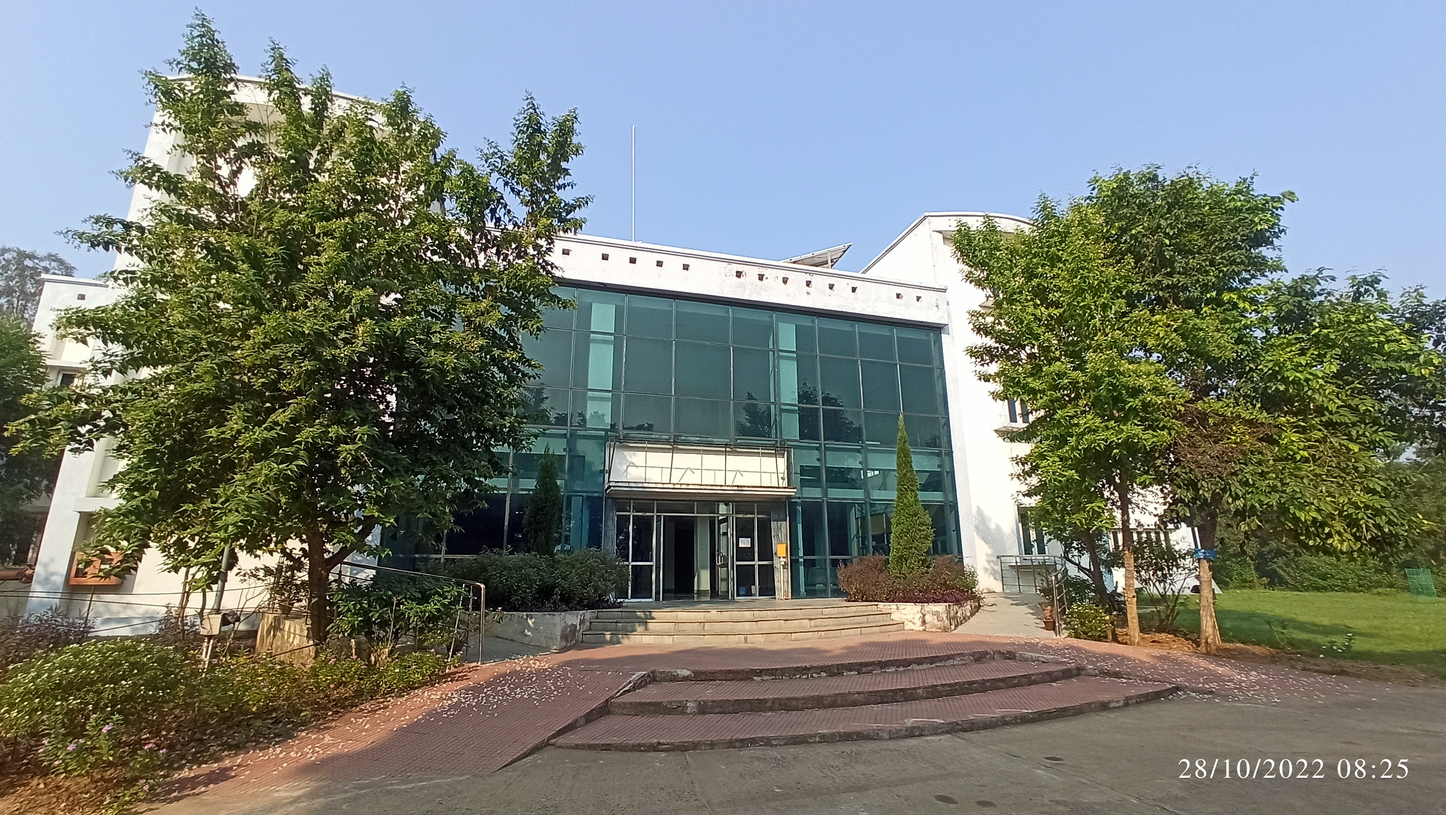
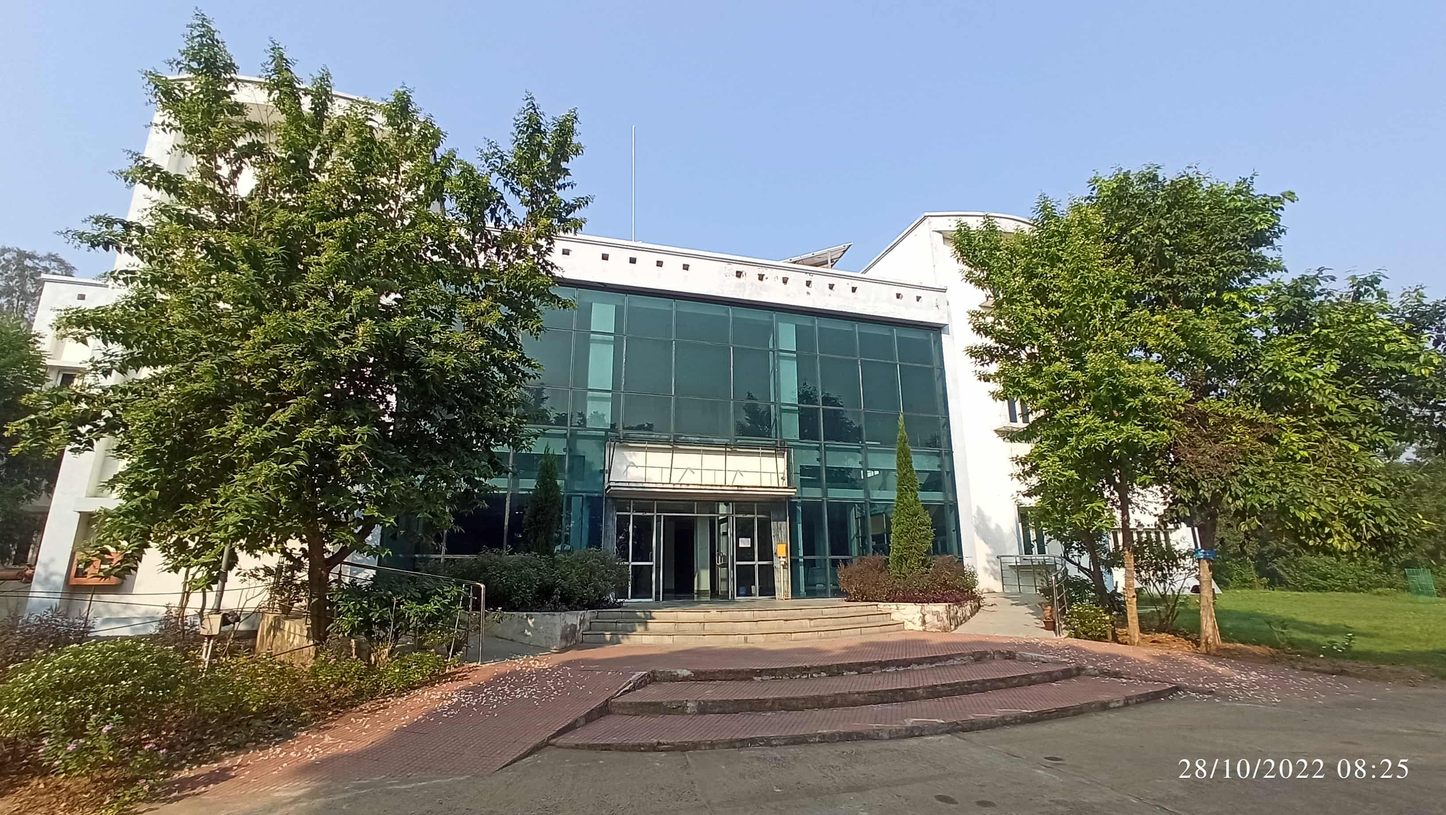
Compressed Images, so that the site loads faster (#44)
* updated gallery with hosca and gallery footer

* updated carousel and hexachrome added

* deleting images

now will upload compressed images

* Uploaded compressed images

* delete large size photos

* Added compressed images of portfolio

* Compressed img/portfolio images

* Updated images

---------

diff --git a/club-carousel/stc_clubs.html b/club-carousel/stc_clubs.html
@@ -22,7 +22,7 @@
             <label for="cover-1">
               <figure class="album-cover">
                 <img
-                  src="../img\clublogos\NJACKLogo.png"
+                  src="../img\clublogos\NJACKLogo.webp"
                 />
 
                 <figcaption class="album-name">
@@ -39,7 +39,7 @@
             <label for="cover-2">
               <figure class="album-cover">
                 <img
-                  src="../img\clublogos\TinkersLogo.png"
+                  src="../img\clublogos\TinkersLogo.webp"
                 />
                 <figcaption class="album-name">
                   Tinkerer's Lab<br>
@@ -55,7 +55,7 @@
             <label for="cover-3">
               <figure class="album-cover">
                 <img
-                  src="../img\clublogos\FinanceClubIITPLogo.png"
+                  src="../img\clublogos\FinanceClubIITPLogo.webp"
                 />
                 <figcaption class="album-name">
                   Finance Club<br>
@@ -71,7 +71,7 @@
             <label for="cover-4">
               <figure class="album-cover">
                 <img
-                  src="../img\clublogos\ChESSxLogo.jpg"
+                  src="../img\clublogos\ChESSxLogo.webp"
                 />
                 <figcaption class="album-name">
                   ChESSx<br>
@@ -87,7 +87,7 @@
             <label for="cover-5">
               <figure class="album-cover">
                 <img
-                  src="../img\clublogos\APCIITPatnalogo.png"
+                  src="../img\clublogos\APCIITPatnalogo.webp"
                 />
                 <figcaption class="album-name">
                   APC<br>
@@ -103,7 +103,7 @@
             <label for="cover-6">
               <figure class="album-cover">
                 <img
-                  src="../img\clublogos\ACElogo.png"
+                  src="../img\clublogos\ACElogo.webp"
                 />
                 <figcaption class="album-name">
                   ACE<br>
@@ -119,7 +119,7 @@
             <label for="cover-7">
               <figure class="album-cover">
                 <img
-                  src="../img\clublogos\Mateslogo.png"
+                  src="../img\clublogos\Mateslogo.webp"
                 />
                 <figcaption class="album-name">
                   MaTES<br>
@@ -135,7 +135,7 @@
             <label for="cover-8">
               <figure class="album-cover">
                 <img
-                  src="../img\clublogos\sparkonicsLogo.jpg"
+                  src="../img\clublogos\sparkonicsLogo.webp"
                 />
                 <figcaption class="album-name">
                   Sparkonics<br>
@@ -151,7 +151,7 @@
             <label for="cover-9">
               <figure class="album-cover">
                 <img
-                  src="../img\clublogos\SCMELogo.jpg"
+                  src="../img\clublogos\SCMELogo.webp"
                 />
                 <figcaption class="album-name">
                   SCME<br>
@@ -167,23 +167,7 @@
             <label for="cover-10">
               <figure class="album-cover">
                 <img
-                  src="../img\clublogos\RnALogo.png"
-                />
-                <figcaption class="album-name">
-                  RnA<br>
-                  <a href="https://stc.iitp.ac.in/rnaclub.html" class="learn-more hidden" id="link10"
-                  target="_parent">Learn More</a>
-                </figcaption>
-              </figure>
-            </label>
-          </li>
-          <!-- Cover item -->
-          <input type="radio" name="cover-item" id="cover-10" />
-          <li class="coverflow-item">
-            <label for="cover-10">
-              <figure class="album-cover">
-                <img
-                  src="../img\clublogos\RnALogo.png"
+                  src="../img\clublogos\RnALogo.webp"
                 />
                 <figcaption class="album-name">
                   RnA<br>
@@ -199,7 +183,7 @@
             <label for="cover-11">
               <figure class="album-cover">
                 <img
-                  src="../img\clublogos\MoodBoard.png"
+                  src="../img\clublogos\MoodBoard.webp"
                 />
                 <figcaption class="album-name">
                   MoodBoard<br>
@@ -214,7 +198,7 @@
             <label for="cover-12">
               <figure class="album-cover">
                 <img
-                  src="../img\clublogos\supra.jpg"
+                  src="../img\clublogos\supra.webp"
                 />
                 <figcaption class="album-name">
                   Supra<br>

diff --git a/club-carousel/hosca_clubs.html b/club-carousel/hosca_clubs.html
@@ -22,7 +22,7 @@
             <label for="cover-1">
               <figure class="album-cover">
                 <img
-                  src="../img\clublogos\Pixxel.jpeg"
+                  src="../img\clublogos\Pixxel.webp"
                 />
 
                 <figcaption class="album-name">
@@ -39,7 +39,7 @@
             <label for="cover-2">
               <figure class="album-cover">
                 <img
-                  src="../img\clublogos\Vincetroke.png"
+                  src="../img\clublogos\Vincetroke.webp"
                 />
                 <figcaption class="album-name">
                   Vincetroke<br>
@@ -55,7 +55,7 @@
             <label for="cover-3">
               <figure class="album-cover">
                 <img
-                  src="../img\clublogos\anime.png"
+                  src="../img\clublogos\anime.webp"
                 />
                 <figcaption class="album-name">
                   Anime Club<br>
@@ -71,7 +71,7 @@
             <label for="cover-4">
               <figure class="album-cover">
                 <img
-                  src="../img\clublogos\aria.png"
+                  src="../img\clublogos\aria.webp"
                 />
                 <figcaption class="album-name">
                   Aria<br>
@@ -87,7 +87,7 @@
             <label for="cover-5">
               <figure class="album-cover">
                 <img
-                  src="../img\clublogos\exousia.png"
+                  src="../img\clublogos\exousia.webp"
                 />
                 <figcaption class="album-name">
                   Exousia<br>
@@ -103,7 +103,7 @@
             <label for="cover-6">
               <figure class="album-cover">
                 <img
-                  src="../img\clublogos\hoot.png"
+                  src="../img\clublogos\hoot.webp"
                 />
                 <figcaption class="album-name">
                   Hoot<br>
@@ -119,7 +119,7 @@
             <label for="cover-7">
               <figure class="album-cover">
                 <img
-                  src="../img\clublogos\quiz.png"
+                  src="../img\clublogos\quiz.webp"
                 />
                 <figcaption class="album-name">
                   Quiz Club<br>
@@ -135,7 +135,7 @@
             <label for="cover-8">
               <figure class="album-cover">
                 <img
-                  src="../img\clublogos\syahi.png"
+                  src="../img\clublogos\syahi.webp"
                 />
                 <figcaption class="album-name">
                   Syahi<br>
@@ -151,11 +151,28 @@
             <label for="cover-9">
               <figure class="album-cover">
                 <img
-                  src="../img\clublogos\yavanika.png"
+                  src="../img\clublogos\yavanika.webp"
                 />
                 <figcaption class="album-name">
                   Yavanika<br>
                   <a href="https://www.instagram.com/yavanika_iitp/" class="learn-more hidden" id="link9"
+                  target="_parent">Learn More</a>
+                </figcaption>
+              </figure>
+            </label>
+          </li>
+          <!-- Cover item -->
+          <!-- Cover item -->
+          <input type="radio" name="cover-item" id="cover-10" />
+          <li class="coverflow-item">
+            <label for="cover-10">
+              <figure class="album-cover">
+                <img
+                  src="../img\clublogos\hexa.webp"
+                />
+                <figcaption class="album-name">
+                  Hexachrome<br>
+                  <a href="https://www.instagram.com/yavanika_iitp/" class="learn-more hidden" id="link10"
                   target="_parent">Learn More</a>
                 </figcaption>
               </figure>
